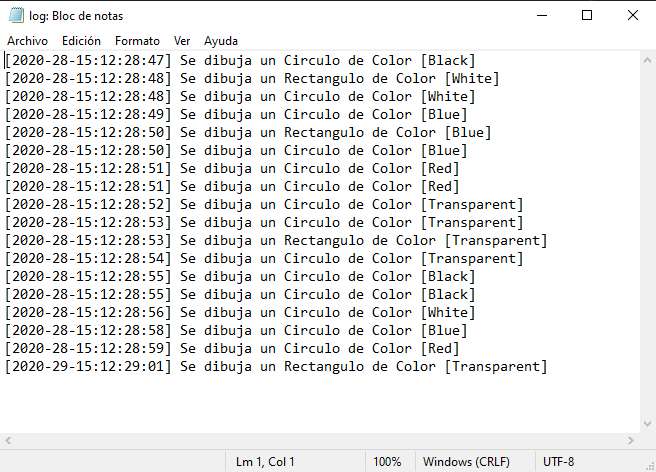
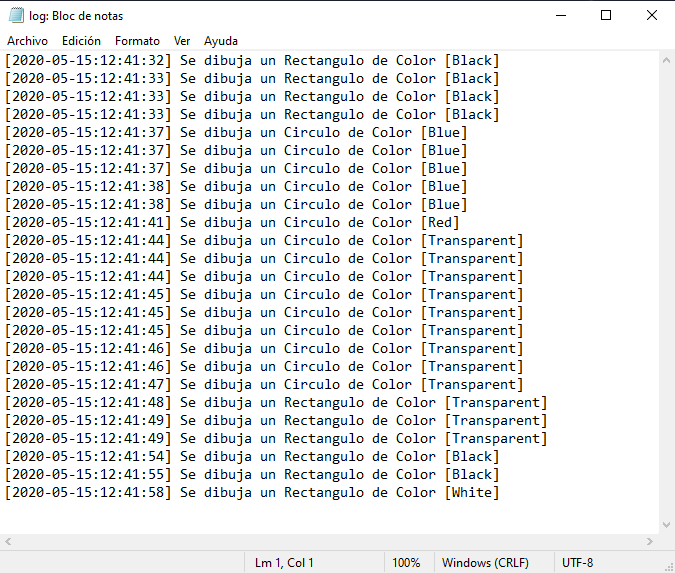
correccion log

diff --git a/Pinta_Figuras/Registro.cs b/Pinta_Figuras/Registro.cs
@@ -15,7 +15,7 @@ class Registro {
         try {
             textOut = new StreamWriter(new FileStream("./log.txt", FileMode.Append,FileAccess.Write));
             File.SetAttributes("./log.txt", FileAttributes.Hidden);
-            textOut.WriteLine("[{0}] Se dibuja un {1} de {2}", DateTime.Now.ToString("yyyy-mm-dd:hh:mm:ss"), fig, col);
+            textOut.WriteLine("[{0}] Se dibuja un {1} de {2}", DateTime.Now.ToString("yyyy-MM-dd:hh:mm:ss"), fig, col);
         }
         catch (UnauthorizedAccessException) {
             MessageBox.Show("Excepcion de no acceso");
